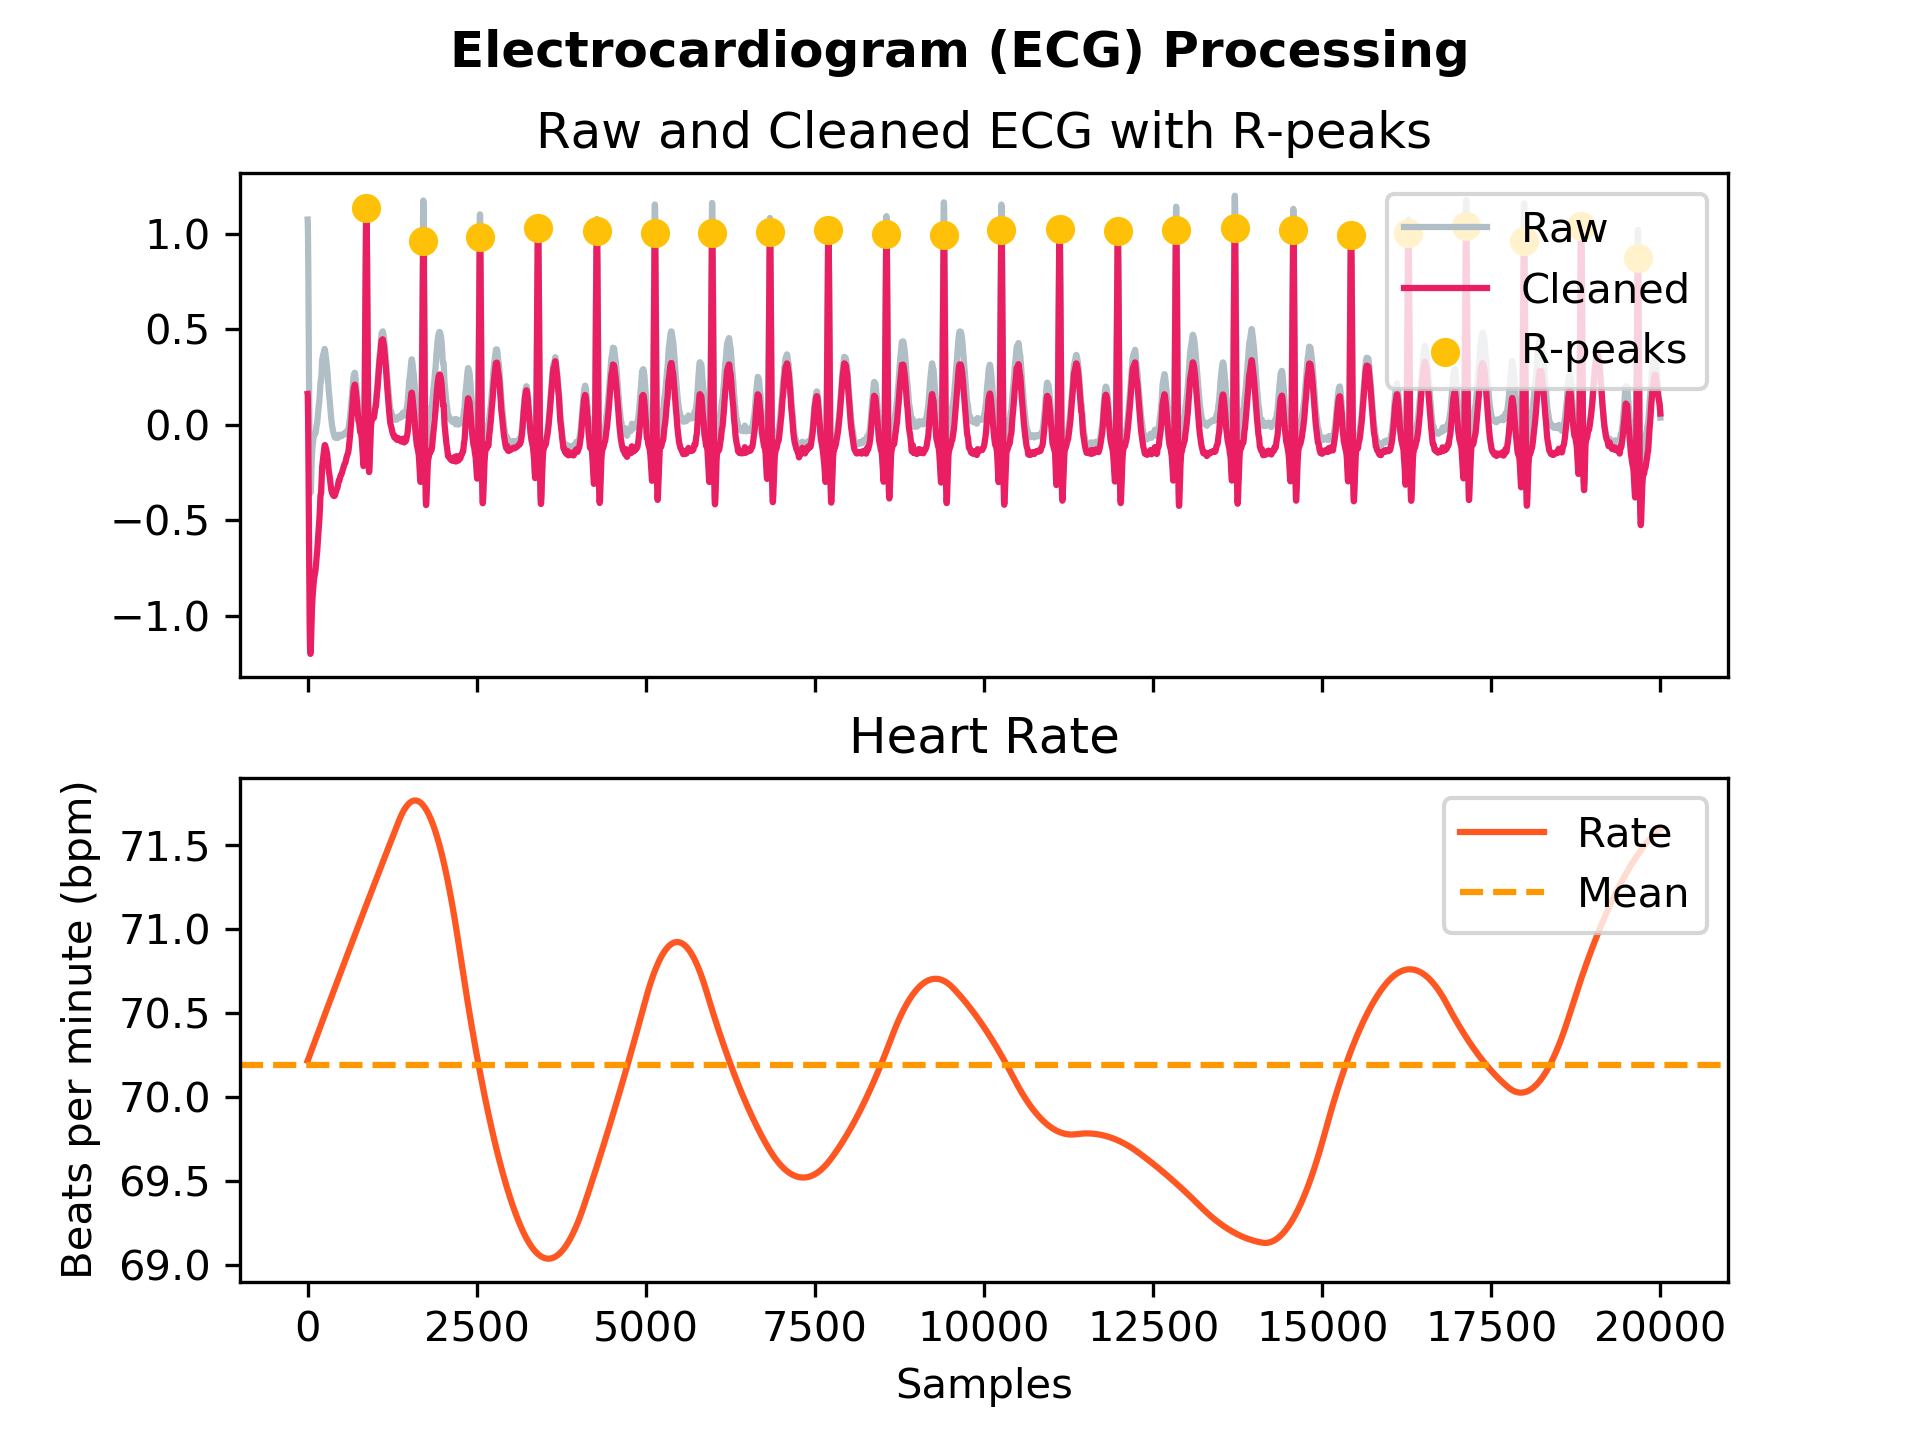
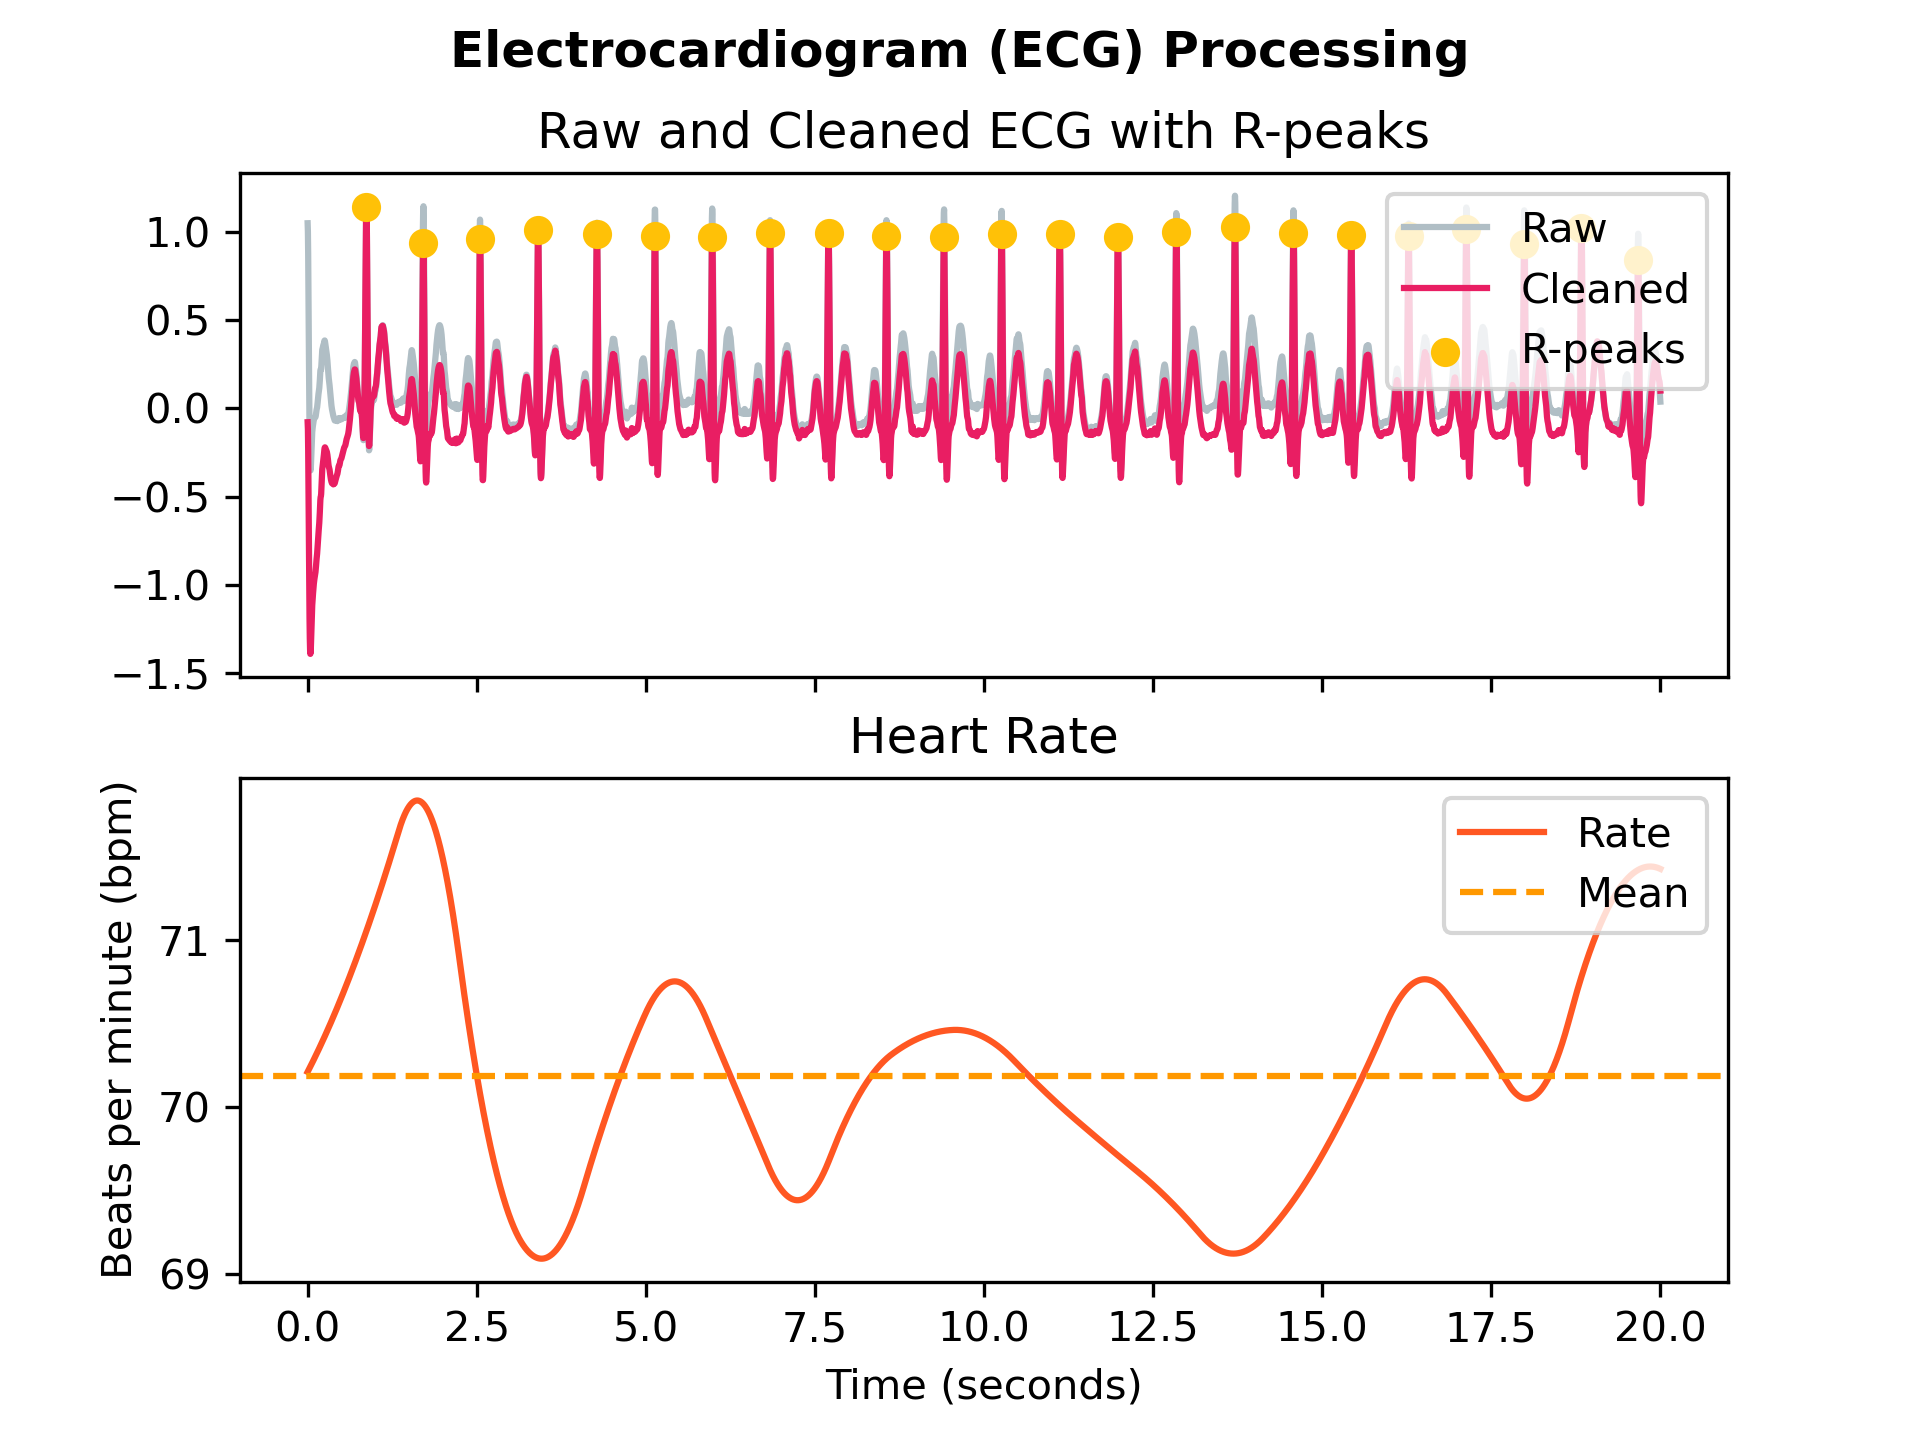
README

diff --git a/docs/img/README_examples.py b/docs/img/README_examples.py
@@ -1,6 +1,6 @@
 import numpy as np
 import pandas as pd
-import neurokit2 as nk
+#import neurokit2 as nk
 
 
 # =============================================================================
@@ -18,7 +18,7 @@ data = pd.DataFrame({"ECG": ecg,
                      "RSP": rsp,
                      "EDA": eda,
                      "EMG": emg})
-data.plot(subplots=True)
+nk.signal_plot(data, subplots=True)
 
 
 # Save it
@@ -34,17 +34,17 @@ plot[0][0].get_figure().savefig("README_simulation.png", dpi=300)
 # Cardiac activity (ECG) processing
 # =============================================================================
 
-# Generate 20 seconds of ECG signal
-ecg = nk.ecg_simulate(duration=20, heart_rate=70, random_state=333)
+# Generate 20 seconds of ECG signal (recorded at 250 samples / second)
+ecg = nk.ecg_simulate(duration=20, sampling_rate=250, heart_rate=70, random_state=333)
 
 # Process it
-signals, info = nk.ecg_process(ecg)
+signals, info = nk.ecg_process(ecg, sampling_rate=250)
 
 # Visualise the processing
-nk.ecg_plot(signals)
+nk.ecg_plot(signals, sampling_rate=250)
 
 # Save it
-plot = nk.ecg_plot(signals)
+plot = nk.ecg_plot(signals, sampling_rate=250)
 plot.savefig("README_ecg.png", dpi=300)
 
 
@@ -52,15 +52,15 @@ plot.savefig("README_ecg.png", dpi=300)
 # Respiration (RSP) processing
 # =============================================================================
 
-# Generate one minute of respiratory (RSP) signal
-rsp = nk.rsp_simulate(duration=60, respiratory_rate=15)
+# Generate one minute of respiratory (RSP) signal (recorded at 250 samples / second)
+rsp = nk.rsp_simulate(duration=60, sampling_rate=250, respiratory_rate=15)
 
 # Process it
-signals, info = nk.rsp_process(rsp)
+signals, info = nk.rsp_process(rsp, sampling_rate=250)
 
 # Visualise the processing
-nk.rsp_plot(signals)
+nk.rsp_plot(signals, sampling_rate=250)
 
 # Save it
-plot = nk.rsp_plot(signals)
+plot = nk.rsp_plot(signals, sampling_rate=250)
 plot.savefig("README_respiration.png", dpi=300)

diff --git a/README.rst b/README.rst
@@ -84,7 +84,7 @@ Simulate physiological signals
                          "RSP": rsp,
                          "EDA": eda,
                          "EMG": emg})
-    data.plot(subplots=True)
+    nk.signal_plot(data, subplots=True)
 
 
 .. image:: https://raw.github.com/neuropsychology/NeuroKit/master/docs/img/README_simulation.png
@@ -94,14 +94,14 @@ Cardiac activity (ECG) processing
 
 .. code-block:: python
 
-    # Generate 20 seconds of ECG signal
-    ecg = nk.ecg_simulate(duration=20, heart_rate=70)
+    # Generate 20 seconds of ECG signal (recorded at 250 samples / second)
+    ecg = nk.ecg_simulate(duration=20, sampling_rate=250, heart_rate=70, random_state=333)
 
     # Process it
-    signals, info = nk.ecg_process(ecg)
+    signals, info = nk.ecg_process(ecg, sampling_rate=250)
 
     # Visualise the processing
-    nk.ecg_plot(signals)
+    nk.ecg_plot(signals, sampling_rate=250)
 
 
 .. image:: https://raw.github.com/neuropsychology/NeuroKit/master/docs/img/README_ecg.png
@@ -112,14 +112,14 @@ Respiration (RSP) processing
 
 .. code-block:: python
 
-    # Generate one minute of respiratory (RSP) signal
-    rsp = nk.rsp_simulate(duration=60, respiratory_rate=15)
+    # Generate one minute of respiratory (RSP) signal (recorded at 250 samples / second)
+    rsp = nk.rsp_simulate(duration=60, sampling_rate=250, respiratory_rate=15)
 
     # Process it
-    signals, info = nk.rsp_process(rsp)
+    signals, info = nk.rsp_process(rsp, sampling_rate=250)
 
     # Visualise the processing
-    nk.rsp_plot(signals)
+    nk.rsp_plot(signals, sampling_rate=250)
 
 
 .. image:: https://raw.github.com/neuropsychology/NeuroKit/master/docs/img/README_respiration.png
